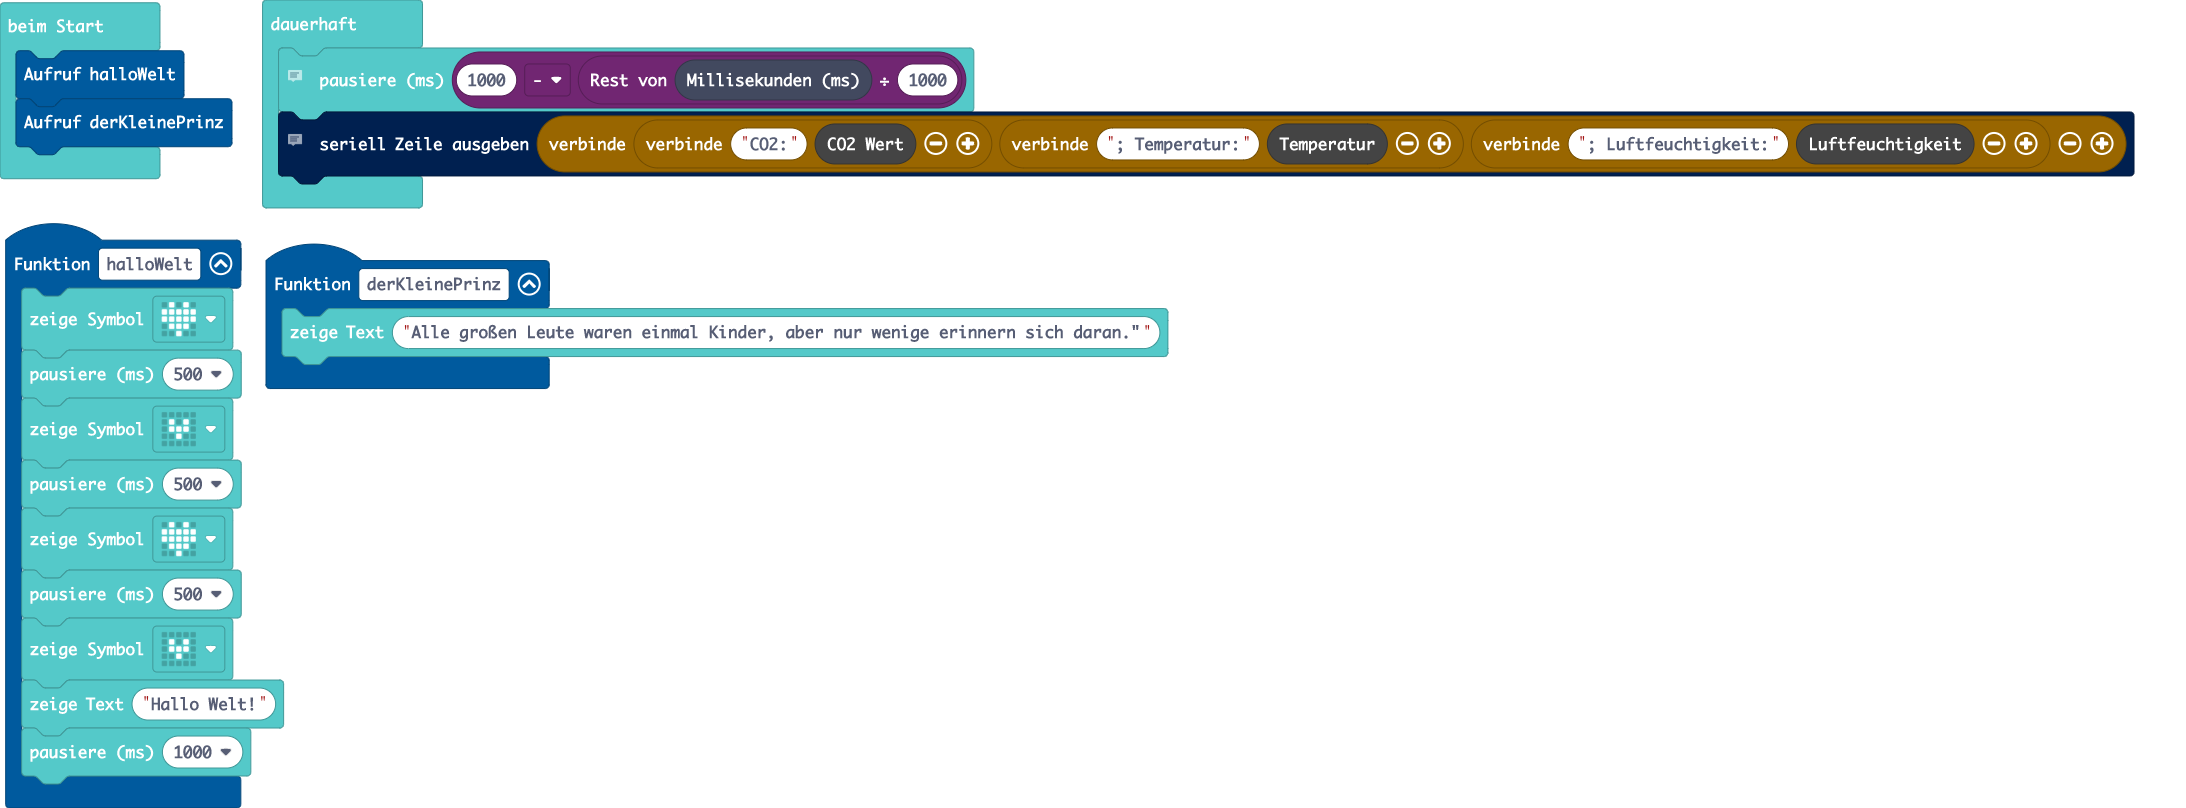
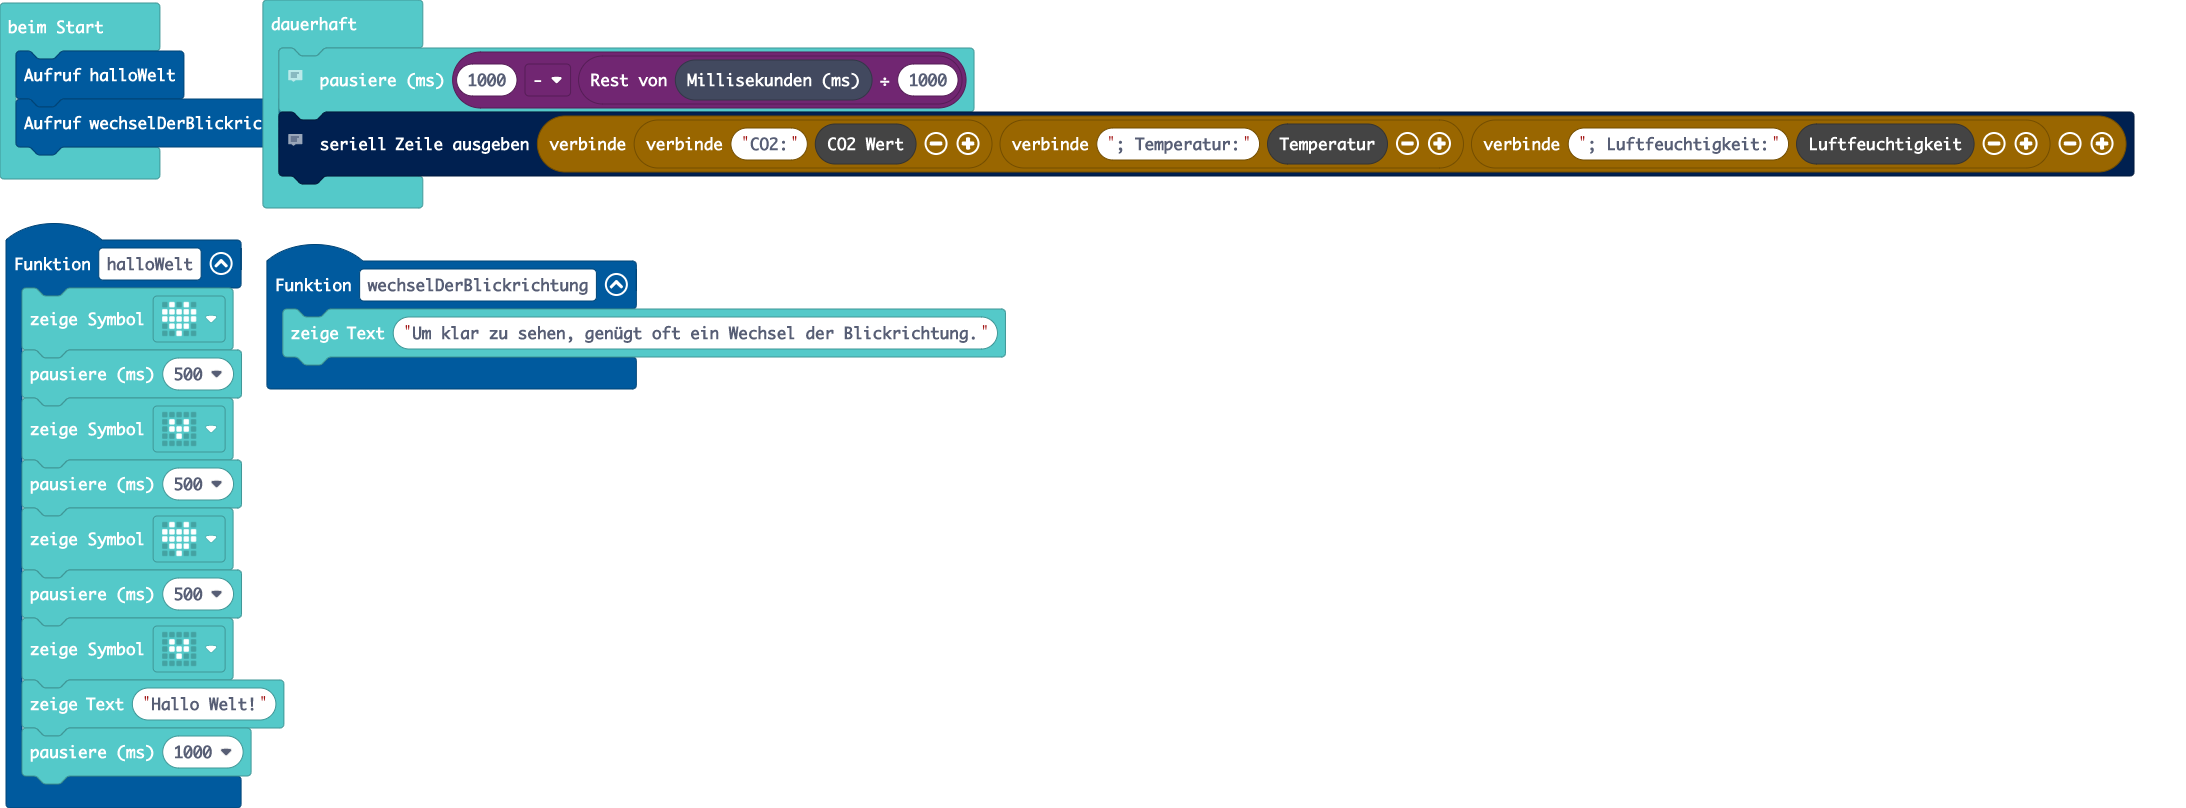
Aktualisiere main.blocks, main.ts

diff --git a/main.ts b/main.ts
@@ -1,5 +1,5 @@
-function derKleinePrinz () {
-    basic.showString("Alle großen Leute waren einmal Kinder, aber nur wenige erinnern sich daran.\"")
+function wechselDerBlickrichtung () {
+    basic.showString("Um klar zu sehen, genügt oft ein Wechsel der Blickrichtung.")
 }
 function halloWelt () {
     basic.showIcon(IconNames.Heart)
@@ -13,7 +13,7 @@ function halloWelt () {
     basic.pause(1000)
 }
 halloWelt()
-derKleinePrinz()
+wechselDerBlickrichtung()
 basic.forever(function () {
     // Statt die Sensorwerte permanent auszulesen, werden sie
     // jede Sekunde abgefragt. Doch warum werden nicht einfach 1000 Millisekunden gewählt? Das liegt daran, dass das ausgeführte Programm eine Latenz/Verzögerung hat. Die Laufzeit des Minis ist eine Uhr die immer exakt fortläuft: Machen wir mal eine kurze Rechnung und sagen, dass der Programmcode 150 Millisekunden braucht, um von oben nach unten ausgeführt zu werden:
